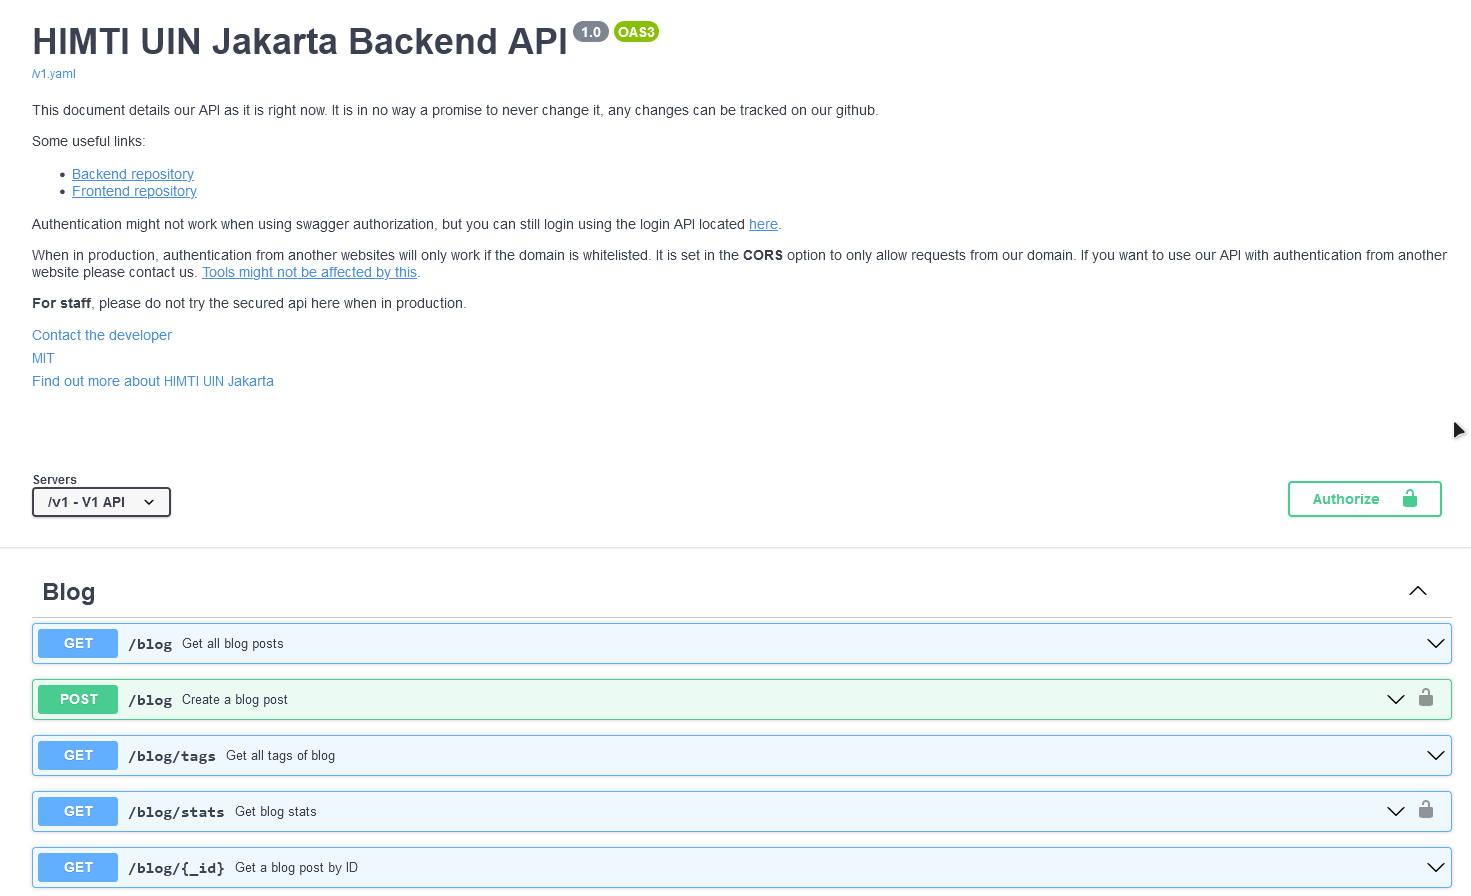
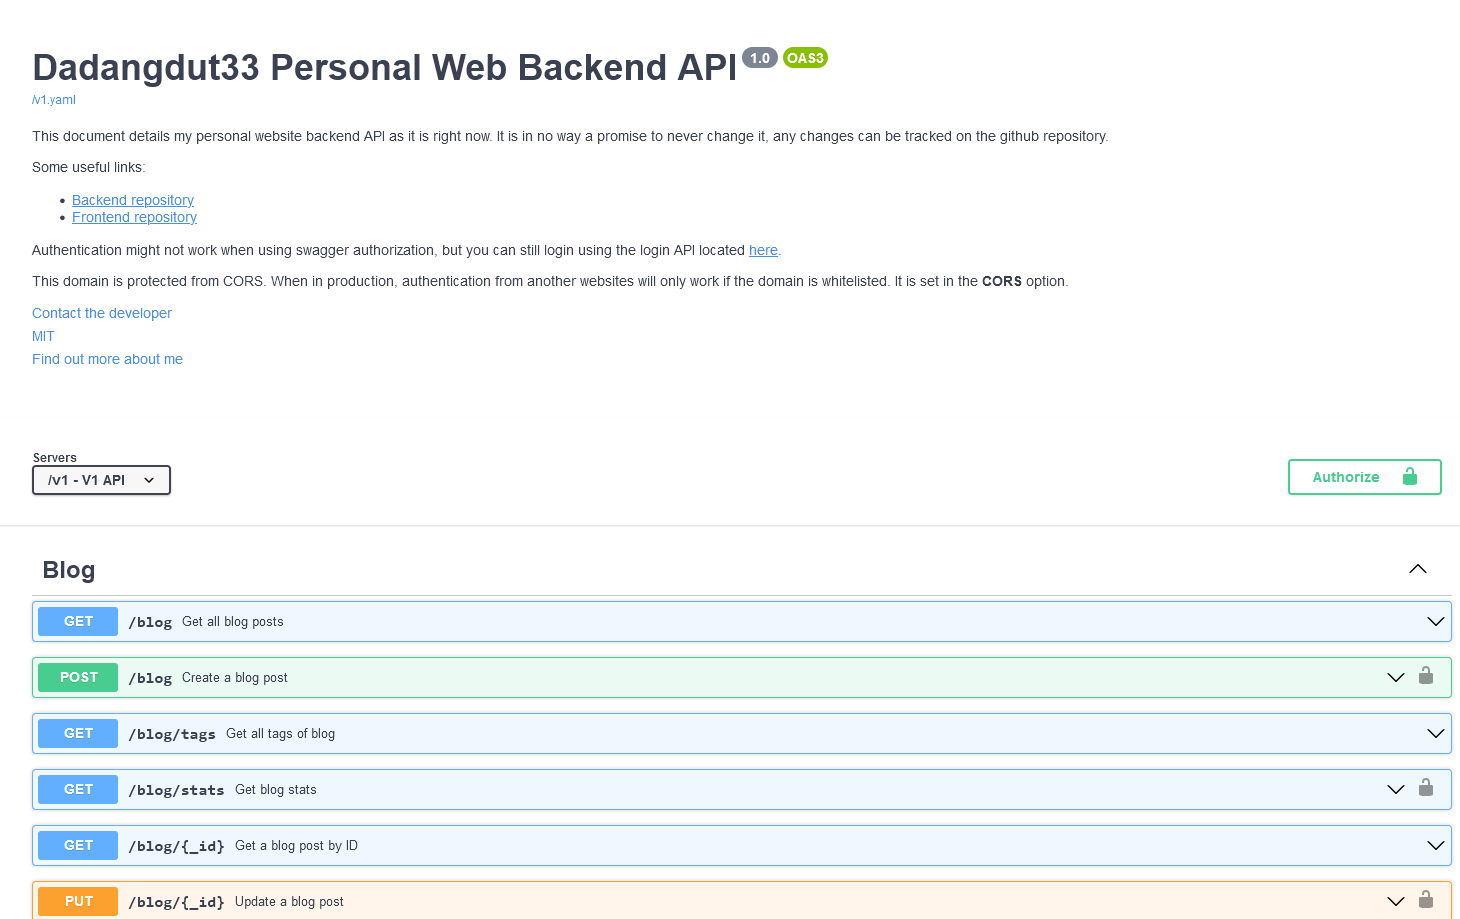
readme update

diff --git a/README.md b/README.md
@@ -1,24 +1,12 @@
 <p align="center">
-  <img src="https://avatars.githubusercontent.com/u/106340941">
-</p>
-
-<h1 align="center">Backend Website Himti</h1>
-<p align="center">
-  <a href="https://github.com/Litbang-HIMTI/Backend-Website-Himti/issues"><img alt="GitHub issues" src="https://img.shields.io/github/issues/Litbang-HIMTI/Backend-Website-Himti"></a>
-  <a href="https://github.com/Litbang-HIMTI/Backend-Website-Himti/pulls"><img alt="GitHub pull requests" src="https://img.shields.io/github/issues-pr/Litbang-HIMTI/Backend-Website-Himti"></a>
+  <a href="https://github.com/Dadangdut33/Personal-Web-Backend/issues"><img alt="GitHub issues" src="https://img.shields.io/github/issues/Dadangdut33/Personal-Web-Backend"></a>
+  <a href="https://github.com/Dadangdut33/Personal-Web-Backend/pulls"><img alt="GitHub pull requests" src="https://img.shields.io/github/issues-pr/Dadangdut33/Personal-Web-Backend"></a>
   <br />
-  <a href="https://github.com/Litbang-HIMTI/Backend-Website-Himti/stargazers"><img alt="GitHub Repo stars" src="https://img.shields.io/github/stars/Litbang-HIMTI/Backend-Website-Himti?style=social"></a>
-  <a href="https://github.com/Litbang-HIMTI/Backend-Website-Himti/network/members"><img alt="GitHub forks" src="https://img.shields.io/github/forks/Litbang-HIMTI/Backend-Website-Himti?style=social"></a>
+  <a href="https://github.com/Dadangdut33/Personal-Web-Backend/stargazers"><img alt="GitHub Repo stars" src="https://img.shields.io/github/stars/Dadangdut33/Personal-Web-Backend?style=social"></a>
+  <a href="https://github.com/Dadangdut33/Personal-Web-Backend/network/members"><img alt="GitHub forks" src="https://img.shields.io/github/forks/Dadangdut33/Personal-Web-Backend?style=social"></a>
 </p>
 
-Backend tech stack:
-MongoDB + Express.js + Node.js (typescript)
-
-Docs made using swagger.
-
-<p align="center">
-  <img src="./preview.png">
-</p>
+Backend code of my personal web. Made using express. Take a look at [frontend](https://github.com/Dadangdut33/Personal-Web) for frontend code.
 
 # Table of Contents
 
